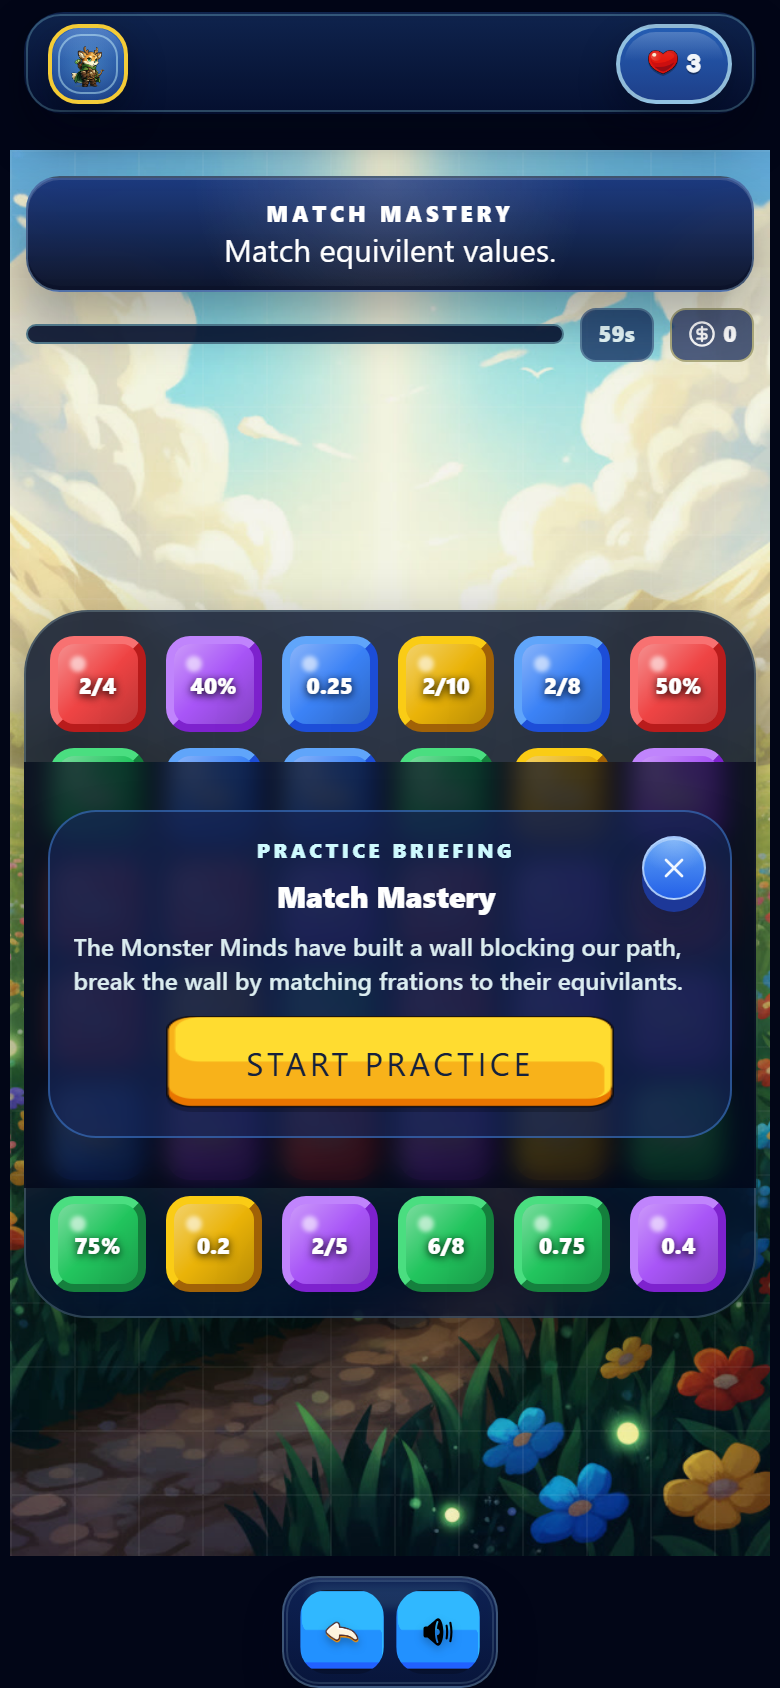
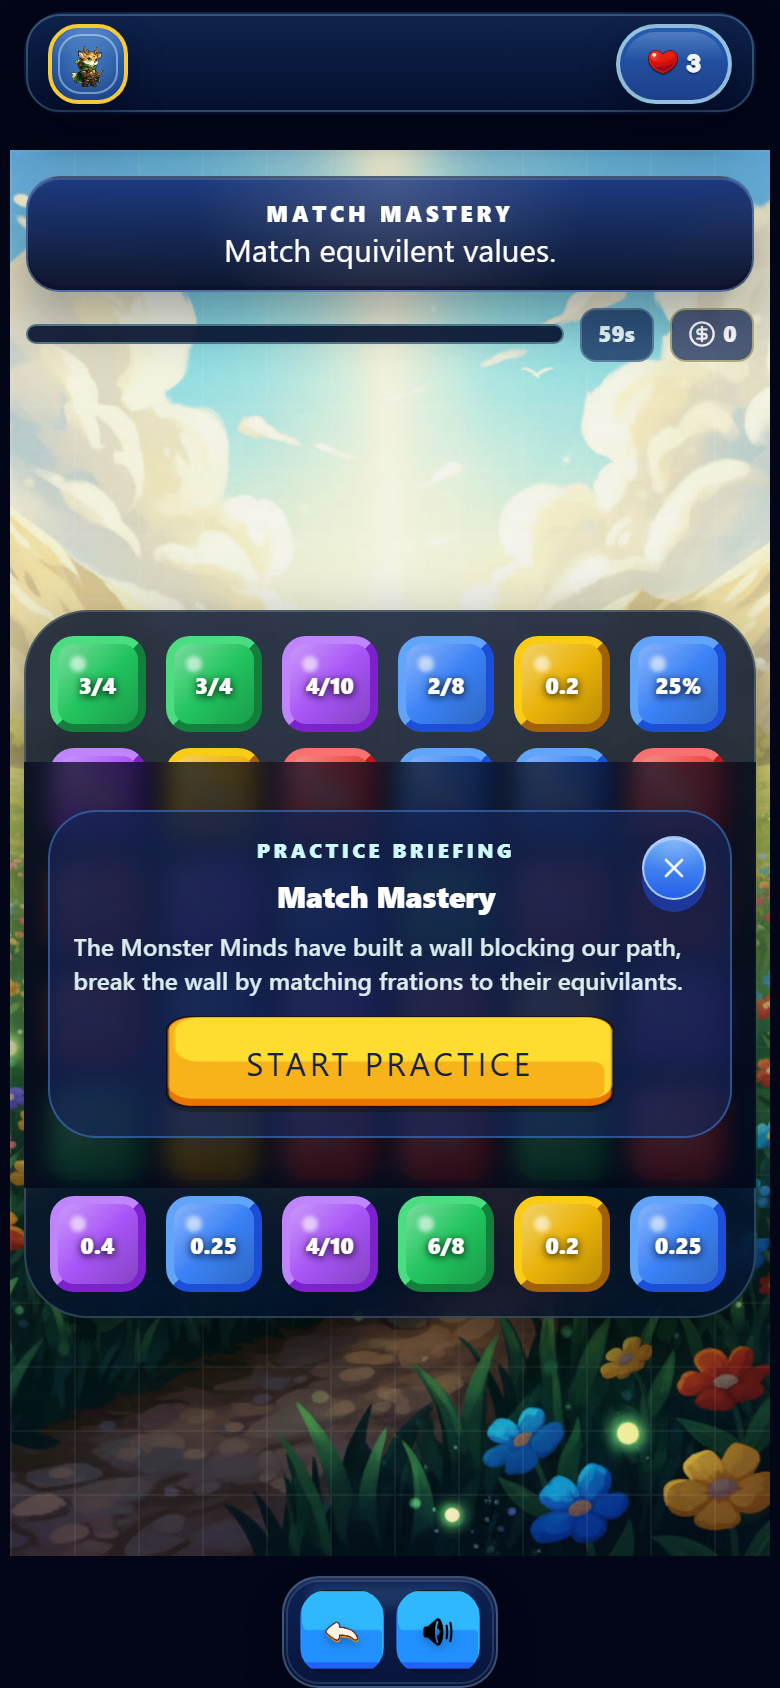
up

diff --git a/src/games/FractionMatchGame.tsx b/src/games/FractionMatchGame.tsx
@@ -300,11 +300,9 @@ const MatchGameShell: React.FC<{
         ) : null}
 
         <div className={`relative min-h-0 flex-1 ${useSharedTopHud ? 'pt-[calc(env(safe-area-inset-top)+5.15rem)]' : ''}`}>
-          <div className="absolute inset-0 opacity-[0.06]" style={{ backgroundImage: 'linear-gradient(#fff 1px, transparent 1px), linear-gradient(90deg, #fff 1px, transparent 1px)', backgroundSize: '32px 32px' }} />
-
            {useSharedTopHud ? (
              <div className="absolute inset-x-2 top-2 z-20 sm:inset-x-4">
-                 <div className="mx-auto w-full max-w-[44rem]">
+               <div className="mx-auto w-full max-w-[44rem]">
                  <GameQuestionCard title="Match Mastery" className="bg-[#0a1f56]/70 backdrop-blur-sm">
                    {questionText}
                  </GameQuestionCard>
@@ -630,17 +628,35 @@ const FractionMatchGame: React.FC<FractionMatchGameProps> = ({
         briefing={null}
         onAction={() => setShowPracticeIntro(false)}
       />
-      <div className="box-border w-[min(94vw,94vh)] rounded-[2rem] border border-cyan-100/20 bg-[#04102c]/82 p-3 shadow-[0_18px_40px_rgba(0,0,0,0.55)] backdrop-blur-sm sm:p-4">
-        <div ref={boardGridRef} className="grid w-full grid-cols-6 gap-2 sm:gap-2.5">
+      <div className="relative box-border w-[min(94vw,94vh)] rounded-[2rem] border border-cyan-100/20 bg-[#04102c]/86 p-3 shadow-[0_18px_40px_rgba(0,0,0,0.55)] backdrop-blur-sm sm:p-4">
+        <div
+          className="pointer-events-none absolute inset-0 rounded-[2rem] opacity-[0.24]"
+          style={{
+            backgroundImage:
+              'linear-gradient(rgba(255,255,255,0.22) 1px, transparent 1px), linear-gradient(90deg, rgba(255,255,255,0.22) 1px, transparent 1px)',
+            backgroundSize: '38px 38px',
+          }}
+        />
+        <div
+          className="pointer-events-none absolute inset-0 rounded-[2rem]"
+          style={{
+            boxShadow: 'inset 0 0 0 1px rgba(255,255,255,0.06), inset 0 0 30px rgba(0,0,0,0.45)',
+          }}
+        />
+        <div ref={boardGridRef} className="relative z-10 grid w-full grid-cols-6 gap-2 sm:gap-2.5">
           {board.map((cell, idx) => (
-            <div key={idx} className="relative" style={{ width: gemSize, height: gemSize }}>
+            <div
+              key={idx}
+              className="relative flex items-center justify-center rounded-2xl border border-cyan-100/16 bg-[#020816]/50 shadow-[inset_0_0_0_1px_rgba(0,0,0,0.35)]"
+              style={{ width: gemSize, height: gemSize }}
+            >
               <AnimatePresence mode="popLayout">
                 {cell && (
                   <BevelledGem
                     key={`${idx}-${cell.type}-${cell.label}`}
                     type={cell.type}
                     label={cell.label}
-                    size={gemSize}
+                    size={Math.max(34, gemSize - 8)}
                     isSelected={selectedIdx === idx}
                     onClick={() => {
                       void handleGemClick(idx);
